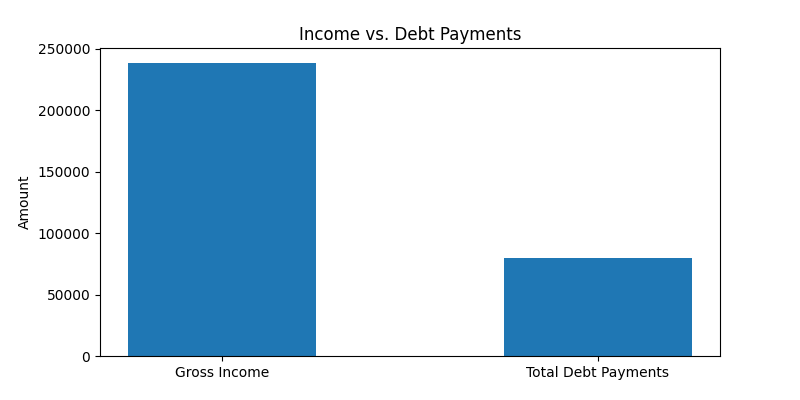
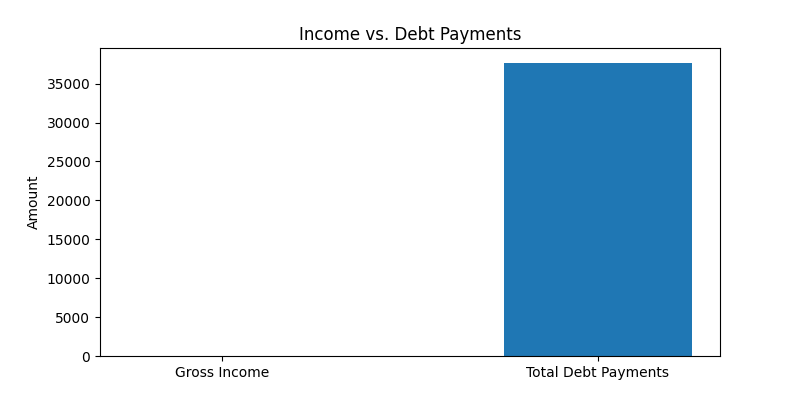
sending calculateApproval results to frontend

diff --git a/Flask/app.py b/Flask/app.py
@@ -1,4 +1,6 @@
-from flask import Flask, render_template, request, send_file
+from flask import Flask, render_template, request, send_file, jsonify
+from calculate import calculateApproval
+import json
 import pandas as pd
 import matplotlib
 matplotlib.use('Agg')  # Set the backend to Agg to avoid GUI issues
@@ -11,20 +13,46 @@ app = Flask(__name__)
 
 data = pd.read_csv('HackUTD-2023-HomeBuyerInfo.csv')
 
-@app.route('/')
+@app.route('/', methods=['GET', 'POST'])
 def home():
-    results = []
-    for x in range(10):
-        result = canBuyHouse(x)
-        results.append((x, result))
+    if request.method == 'POST':
+        # Retrieve credit-related values from the form
+        creditScore = float(request.form.get('creditScore'))
+        grossIncome = float(request.form.get('grossIncome'))
+        creditCardPayment = float(request.form.get('creditCardPaymentAmount'))
+        studentLoanPayment = float(request.form.get('studentLoanPaymentAmount'))
+        carPayment = float(request.form.get('carPaymentAmount'))
+        monthlyMortgagePayment = float(request.form.get('mortgagePaymentAmount'))
+        appraisedValue = float(request.form.get('appraisedValue'))
+        downPayment = float(request.form.get('downPayment'))
+        loanAmount = appraisedValue - downPayment
 
-    gross_income = 0
-    total_debt_payments = 0
+        result, valueOne, valueTwo = calculateApproval(
+            creditScore, grossIncome, creditCardPayment, studentLoanPayment,
+            carPayment, monthlyMortgagePayment, appraisedValue, downPayment, loanAmount
+        )
 
-    # Create a URL for the bar_graph endpoint with the data as parameters
-    url = f'/bar_graph?income={gross_income}&debt_payments={total_debt_payments}'
+        # Rest of the code remains the same
+        # Create a URL for the bar_graph endpoint with the data as parameters
+        url = f'/bar_graph?income={grossIncome}&debt_payments={total_debt_payments}'
 
-    return render_template('site.html', results=results, bar_graph_url=url)
+        return render_template('site.html', result=result, valueOne=valueOne, valueTwo=valueTwo, bar_graph_url=url)
+
+        # This is the 'GET' request part of the route for rendering the initial form
+        return render_template('site.html')
+    else:
+        results = []
+        for x in range(10):
+            result = canBuyHouse(x)
+            results.append((x, result))
+
+        gross_income = 0
+        total_debt_payments = 0
+
+        # Create a URL for the bar_graph endpoint with the data as parameters
+        url = f'/bar_graph?income={gross_income}&debt_payments={total_debt_payments}'
+
+        return render_template('site.html', results=results, bar_graph_url=url)
 
 @app.route('/bar_graph')
 def bar_graph():
@@ -55,6 +83,11 @@ def bar_graph():
 
     # Serve the saved image
     return send_file(plot_filename, mimetype='image/png')
+
+@app.route('/calculate_approval', methods=['POST'])
+def sendCalculation():
+    data = request.json
+    tuple = calculateApproval(request.args.get('CreditScore', 'GrossMonthlyIncome', 'CreditCardPayment', 'StudentLoanPayment, CarPayment, MonthlyMortgagePayment, AppraisedValue, DownPayment, LoanAmount'))
 
 def canBuyHouse(id):
     currAcc = data.iloc[id]
